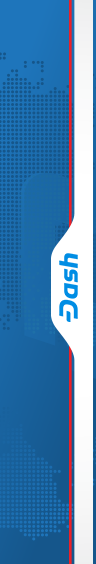
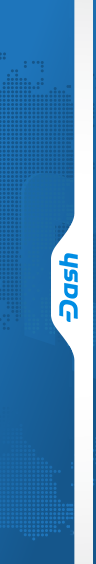
Clean up a few GUI related items (#2846)
* Remove unused (old) icons

* Remove red line from top/bottom of frame

* Remove red line from about image

* Clean up theme display names

* Remove DASH at the beginning (just redundant)
* Capitalize theme names

* Flip "about" image back on its end

* Fix up about image a bit

Changed region(s): [[0.7188, 0.6028, 0.75, 1.0], [0.7188, 0.0, 0.75, 0.422]]

diff --git a/src/qt/optionsdialog.cpp b/src/qt/optionsdialog.cpp
@@ -92,14 +92,14 @@ OptionsDialog::OptionsDialog(QWidget *parent, bool enableWallet) :
     }
     
     /* Theme selector */
-    ui->theme->addItem(QString("DASH-light"), QVariant("light"));
-    ui->theme->addItem(QString("DASH-light-hires"), QVariant("light-hires"));
-    ui->theme->addItem(QString("DASH-light-retro"), QVariant("light-retro"));
-    ui->theme->addItem(QString("DASH-light-hires-retro"), QVariant("light-hires-retro"));
-    ui->theme->addItem(QString("DASH-blue"), QVariant("drkblue"));
-    ui->theme->addItem(QString("DASH-Crownium"), QVariant("crownium"));
-    ui->theme->addItem(QString("DASH-traditional"), QVariant("trad"));
-    
+    ui->theme->addItem(QString("Light"), QVariant("light"));
+    ui->theme->addItem(QString("Light-HiRes"), QVariant("light-hires"));
+    ui->theme->addItem(QString("Light-Retro"), QVariant("light-retro"));
+    ui->theme->addItem(QString("Light-HiRes-Retro"), QVariant("light-hires-retro"));
+    ui->theme->addItem(QString("Blue"), QVariant("drkblue"));
+    ui->theme->addItem(QString("Crownium"), QVariant("crownium"));
+    ui->theme->addItem(QString("Traditional"), QVariant("trad"));
+
     /* Language selector */
     QDir translations(":translations");
 
